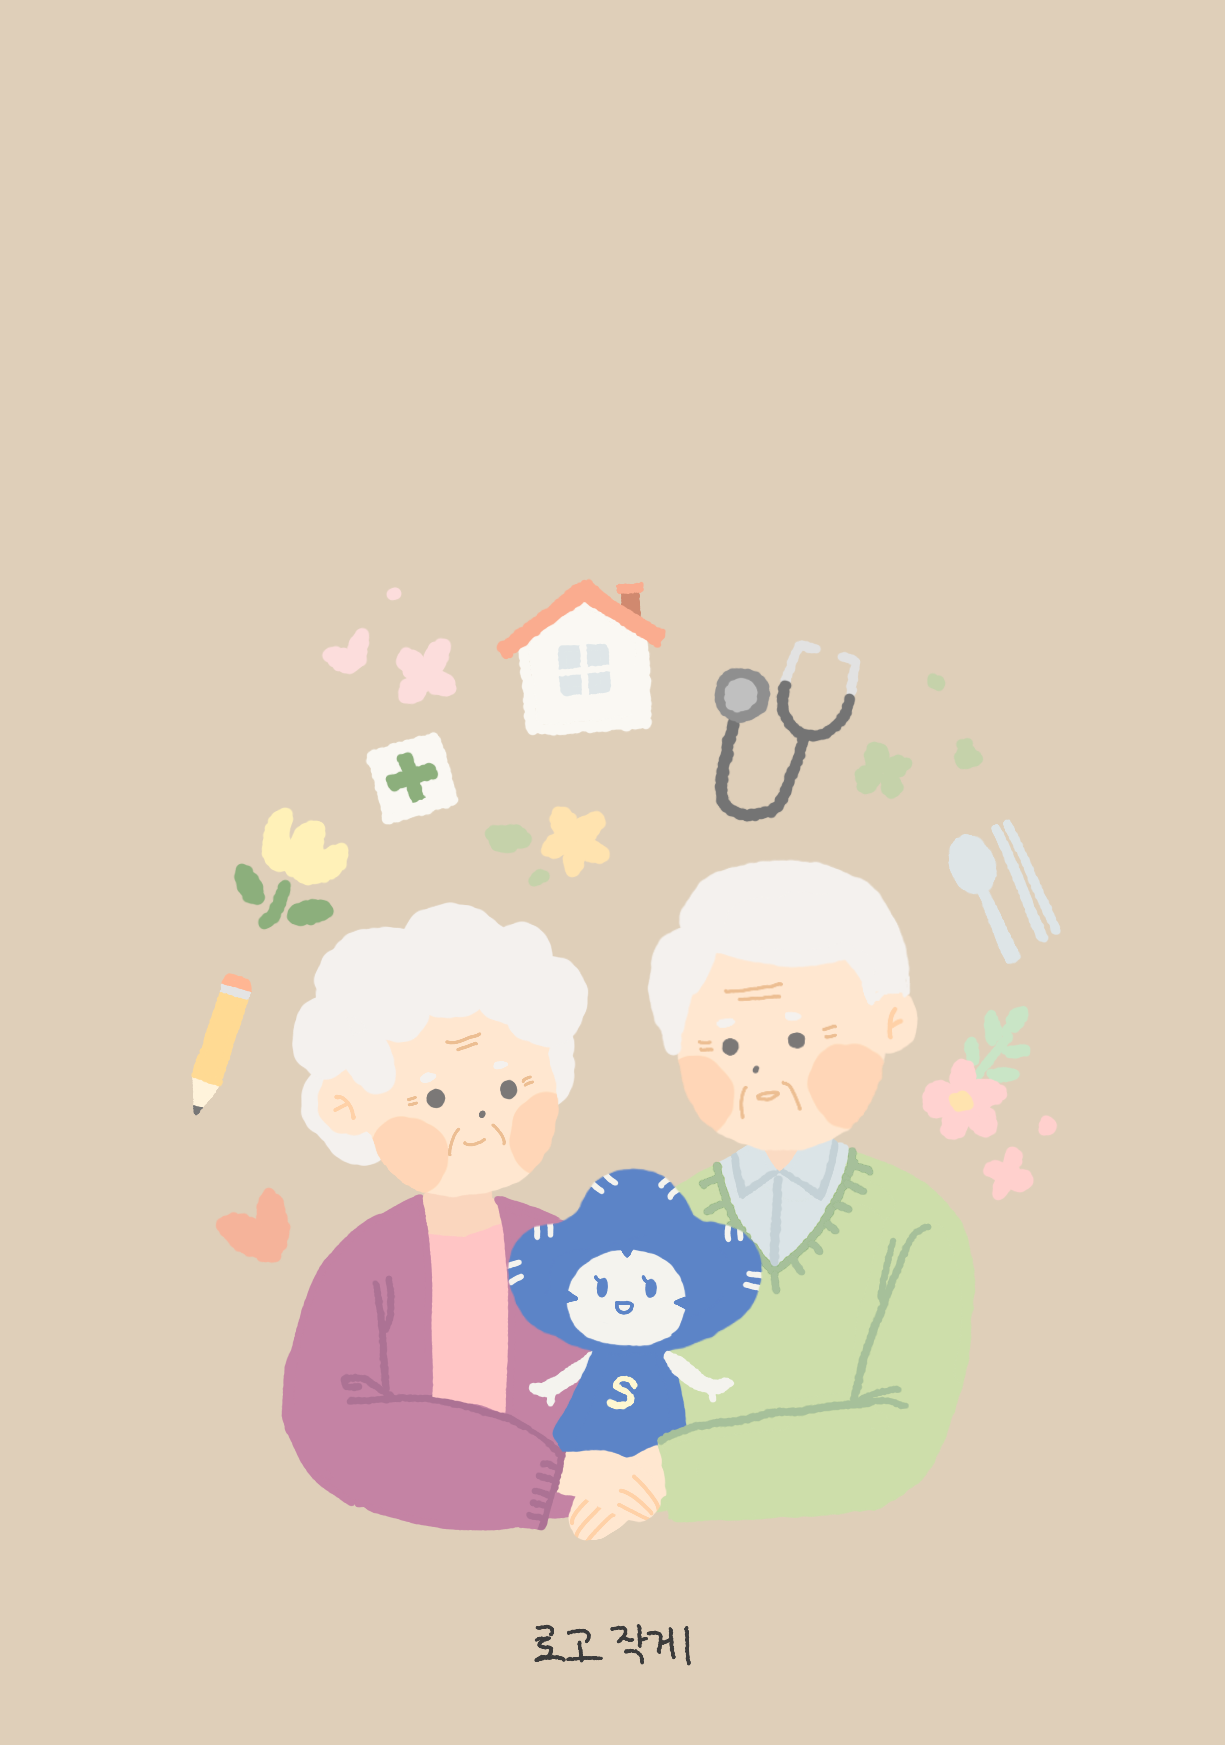
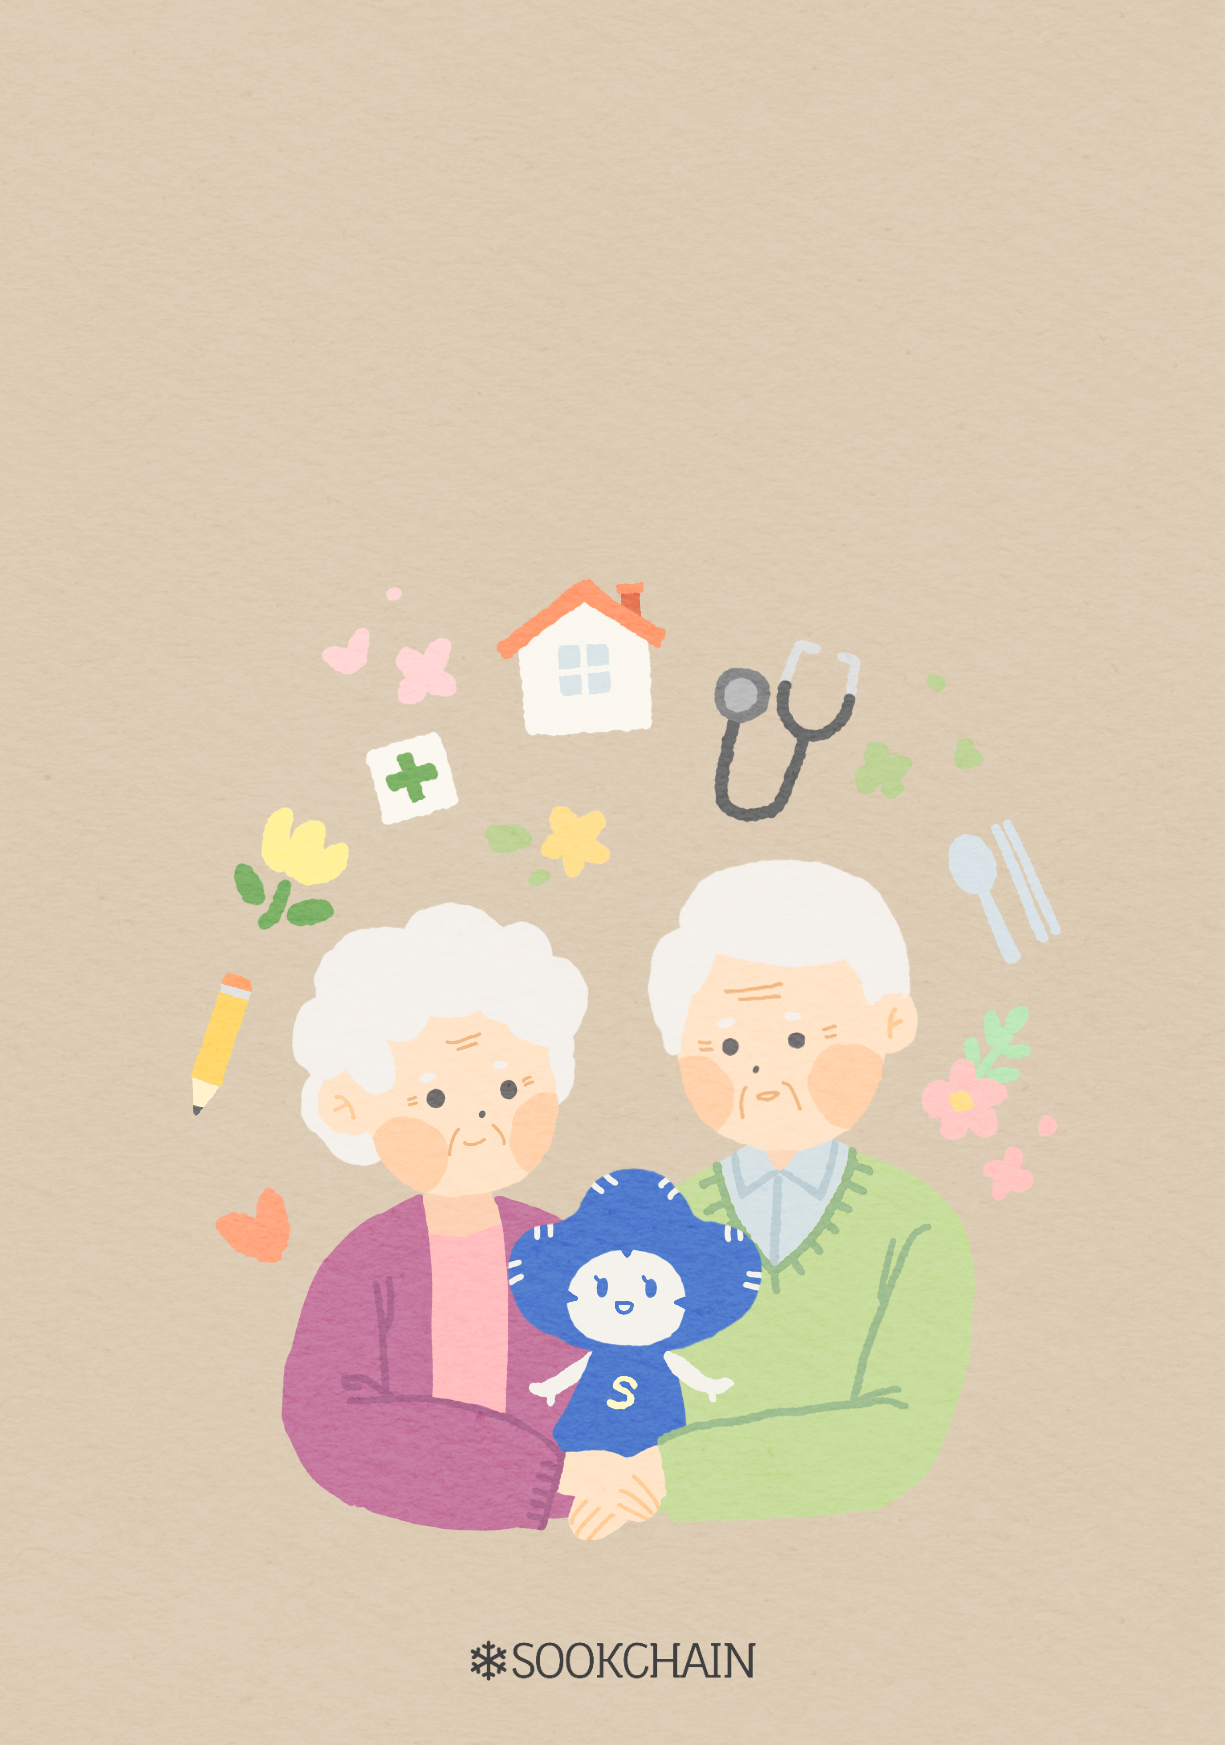
노인 이미지 교체

diff --git a/src/components/CampaignHorizontal.jsx b/src/components/CampaignHorizontal.jsx
@@ -5,7 +5,7 @@ import SERVER_URL from '../hooks/SeverUrl';
 
 const CampaignHorizontal = ({ campaign }) => {
     const navigate = useNavigate();
-    console.log("캠페인 정보", campaign);
+    //console.log("캠페인 정보", campaign);
     const handleClick = () => {
         navigate(`/donate/campaign/${campaign.id}`);
     };

diff --git a/src/components/Campaignlist.jsx b/src/components/Campaignlist.jsx
@@ -27,7 +27,7 @@ export default function Campaignlist() {
         }
 
         const data = await response.json();
-        console.log(data);
+        //console.log(data);
         setCampaigns(data.campaigns); // ⬅ 핵심: campaigns 배열만 저장
       } catch (err) {
         setError(err.message);
